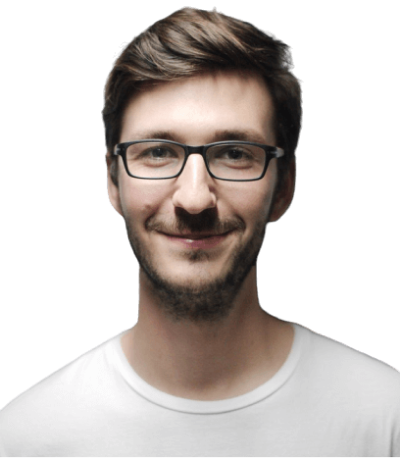
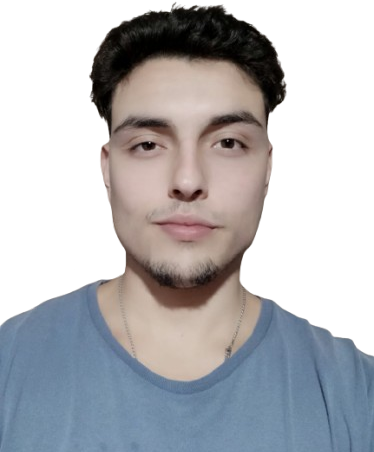
change imgs

diff --git a/index.html b/index.html
@@ -154,7 +154,7 @@
                 </div>
 
                 <div>
-                    <img src="assets/img/work3.jpg" alt="" class="skills__img">
+                    <img src="assets/img/work.jpg" alt="" class="skills__img">
                 </div>
             </div>
         </section>
